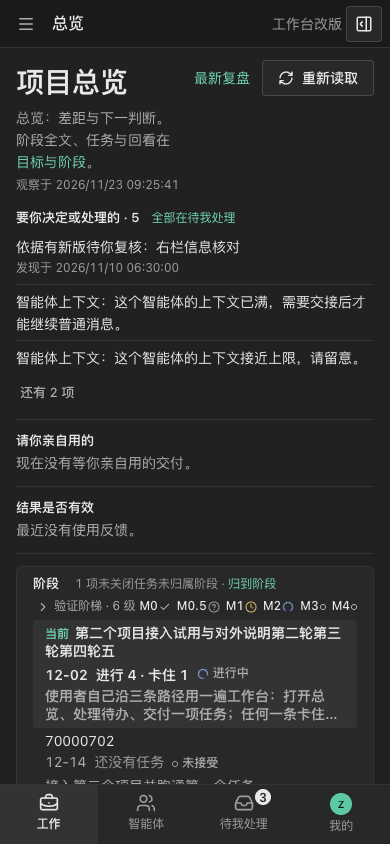
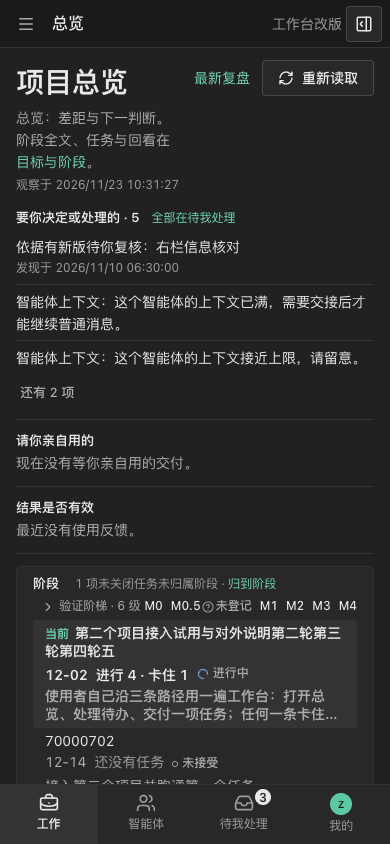
Close-out rework: ladder row names levels by number (only 未登记 marked) and wraps at 390; 目标与阶段 left column gives the name its own line; remove the code only the deleted route used

Changed region(s): [[0.0923, 0.7085, 0.9231, 0.7393], [0.4, 0.2156, 0.4615, 0.2464]]

diff --git a/tests/integration/stage-phase-key.test.ts b/tests/integration/stage-phase-key.test.ts
@@ -7,13 +7,12 @@ import pg from "pg";
 import { migrate, PostgresUnitOfWork } from "@evoloop/adapter-postgres";
 import { WorkflowService } from "@evoloop/core";
 import type { Principal } from "@evoloop/contracts";
-import { milestoneStatus } from "@evoloop/contracts/milestones";
 import { fixtureRoleId, seedFixtureRole } from "./role-fixture.test.js";
 
 const database = process.env.TEST_DATABASE_URL;
 if (!database || !/^\/evoloop(?:_[a-z0-9]+)*_test$/.test(new URL(database).pathname)) throw new Error("A dedicated evoloop_*_test database is required");
 
-test("a stage is linked to a roadmap phase by task decision authority only; the link is read with the stage's own state and latest review, and cleared with null", async t => {
+test("a stage is linked to a roadmap phase by task decision authority only; the link is stored in stage_phase_key and cleared with null", async t => {
   const schema = `phase_key_${randomUUID().replaceAll("-", "")}`;
   await migrate(database!, schema);
   const pool = new pg.Pool({ connectionString: database, options: `-c search_path=${schema}` });
@@ -30,8 +29,9 @@ test("a stage is linked to a roadmap phase by task decision authority only; the 
   const goalId = randomUUID();
   await applied(reviewer, { type: "goal.create", goalId, outcome: "One goal", constraints: "none", consumer: owner, authority: owner, scope: "test", owner });
   const stage = async () => { const stageId = randomUUID(); await applied(reviewer, { type: "stage.propose", shortName: "S", checkMethod: "Check", stageId, goalId, deliverable: "Deliver", learningQuestion: "Learn", reason: "propose" }); return stageId; };
+  const keys = async () => (await pool.query("SELECT phase_key FROM stage_phase_key WHERE project_id=$1 ORDER BY phase_key", [projectId])).rows.map(row => row.phase_key);
   const first = await stage(), second = await stage();
-  assert.deepEqual(await workflow.listStagePhaseLinks(reviewer, projectId), [], "day one: nothing is linked");
+  assert.deepEqual(await keys(), [], "day one: nothing is linked");
 
   const link = (who: Principal, stageId: string, phaseKey: string | null) => issue(who, { type: "stage.phaseKey.set", stageId, phaseKey, reason: "map to the roadmap" });
   await assert.rejects(link(writer, first, "M1"), { code: "FORBIDDEN", message: /Decision authority for task is required/ });
@@ -39,36 +39,26 @@ test("a stage is linked to a roadmap phase by task decision authority only; the 
   assert.equal((await link(reviewer, randomUUID(), "M1")).status, "rejected", "an unknown stage cannot be linked");
   await applied(reviewer, { type: "stage.phaseKey.set", stageId: first, phaseKey: "M1", reason: "map" });
   await applied(reviewer, { type: "stage.phaseKey.set", stageId: second, phaseKey: "M0.5", reason: "map" });
-  let links = await workflow.listStagePhaseLinks(reviewer, projectId);
-  assert.deepEqual(links.map(item => [item.phaseKey, item.state, item.review]), [["M0.5", "proposed", null], ["M1", "proposed", null]]);
+  assert.deepEqual(await keys(), ["M0.5", "M1"]);
   // The stage page's own state moves it: accept, then review; the link follows the same fields.
   await applied(reviewer, { type: "stage.accept", stageId: first, expectedVersion: 1, reason: "accept" });
   await applied(reviewer, { type: "stage.review", stageId: first, expectedVersion: 2, adopted: "The deliverable works", rejected: "Nothing refused", gap: "A gap remains", nextChoice: "continue", evidence: "e", reason: "review" });
-  links = await workflow.listStagePhaseLinks(reviewer, projectId);
-  const m1 = links.find(item => item.phaseKey === "M1")!;
-  assert.equal(m1.state, "reviewed"); assert.equal(m1.review?.adopted, "The deliverable works"); assert.ok(m1.review?.createdAt);
-  assert.equal(milestoneStatus(m1, m1.review), "partial", "an adopted result with a gap is partial");
   // Reachable through the real commands: a correction that says nothing is refused and no gap is left reads 已退出; reviews are append-only.
   const [original] = await workflow.listStageReviews(reviewer, projectId, first);
   const stageNow = await workflow.getStage(reviewer, projectId, first);
   await applied(reviewer, { type: "stage.review.correct", stageId: first, expectedVersion: stageNow.version, supersedesReviewId: original!.id, adopted: "The deliverable works",
     rejected: "无", gap: "没有", nextChoice: "continue", evidence: "e", reason: "the gap was closed" });
-  const corrected = (await workflow.listStagePhaseLinks(reviewer, projectId)).find(item => item.phaseKey === "M1")!;
-  assert.equal(corrected.review?.gap, "没有");
-  assert.equal(milestoneStatus(corrected, corrected.review), "exited", "a real stage.review.correct that names no rejection and no gap reaches 已退出");
   assert.equal((await workflow.listStageReviews(reviewer, projectId, first)).length, 2, "the original review is kept");
   // The reverse: a real review that adopted nothing ("无") reads 已回看.
   await applied(reviewer, { type: "stage.review.correct", stageId: first, expectedVersion: (await workflow.getStage(reviewer, projectId, first)).version,
     supersedesReviewId: (await workflow.listStageReviews(reviewer, projectId, first)).find(r => r.supersedesReviewId)!.id, adopted: "无", rejected: "Refused it", gap: "A gap",
     nextChoice: "stop", evidence: "e", reason: "nothing was adopted" });
-  const reread = (await workflow.listStagePhaseLinks(reviewer, projectId)).find(item => item.phaseKey === "M1")!;
-  assert.equal(milestoneStatus(reread, reread.review), "reviewed", "a real review that adopted nothing is only 已回看");
   // Re-linking changes the phase of the same stage; null clears it; the stage itself is untouched.
   await applied(reviewer, { type: "stage.phaseKey.set", stageId: first, phaseKey: "M2", reason: "remap" });
-  assert.deepEqual((await workflow.listStagePhaseLinks(reviewer, projectId)).map(item => item.phaseKey), ["M0.5", "M2"]);
+  assert.deepEqual(await keys(), ["M0.5", "M2"]);
   await applied(reviewer, { type: "stage.phaseKey.set", stageId: second, phaseKey: null, reason: "unlink" });
-  assert.deepEqual((await workflow.listStagePhaseLinks(reviewer, projectId)).map(item => item.phaseKey), ["M2"]);
+  assert.deepEqual(await keys(), ["M2"]);
   assert.equal((await workflow.getStage(reviewer, projectId, first)).state, "reviewed", "the stage's own record is untouched by the link");
   // A reader without write still reads the links.
-  assert.equal((await workflow.listStagePhaseLinks({ ...writer, permissions: [] }, projectId)).length, 1);
+  assert.equal((await keys()).length, 1);
 });

diff --git a/apps/workbench/test/stage-closeout-ci-browser.test.ts b/apps/workbench/test/stage-closeout-ci-browser.test.ts
@@ -51,7 +51,9 @@ test("close-out: folded ladder row and the two left columns", { skip }, async t 
   const name24 = "第二个项目接入试用与对外说明第二轮第三轮第四轮五"; // exactly 24
   assert.equal([...name24].length, 24);
   const sentence = (key: string) => `${key} 级的状态整句：这一级在路线图状态表里写了足够长的一整句说明，超过三十个字，折叠时一个字也不应该出现。`;
-  const levels = ["M0", "M0.5", "M1", "M2", "M3", "M4"].map((key, index) => ({ key, name: `级别 ${key}`, status: index === 1 ? null : index === 0 ? `已完成：${sentence(key)}` : index === 2 ? `部分达成：${sentence(key)}` : index === 3 ? `进行中：${sentence(key)}` : `未开始：${sentence(key)}`, evidenceStages: [] }));
+  // The real roadmap's sentences do not start with a status word: they start with the place, the date or the host.
+  const openings = ["旧机上", "", "10-30 以来", "常驻主机已运行，", "没有人为介入，", "已在生产环境，"];
+  const levels = ["M0", "M0.5", "M1", "M2", "M3", "M4"].map((key, index) => ({ key, name: `级别 ${key}`, status: index === 1 ? null : `${openings[index]}${sentence(key)}`, evidenceStages: [] }));
 
   const open = async (path: string, width: number, height: number, scheme: "light" | "dark") => {
     const context = await browser.newContext({ viewport: { width, height }, colorScheme: scheme, locale: "zh-CN", timezoneId: "Asia/Tashkent" });
@@ -84,12 +86,14 @@ test("close-out: folded ladder row and the two left columns", { skip }, async t 
     assert.match(folded, /^验证阶梯 · 6 级/);
     assert.equal(await summary.locator("[data-ladder-mark]").count(), 6);
     for (const key of ["M0", "M0.5", "M1", "M2", "M3", "M4"]) assert.ok(await summary.locator(`[data-ladder-mark="${key}"]`).count() === 1, key);
-    assert.ok(!folded.includes("整句"), "no status sentence while folded");
-    const box = await summary.boundingBox(); assert.ok(box && box.height < 28, `the folded row is one line at ${width} (height ${box?.height})`);
-    const marks = await summary.locator("[data-ladder-mark]").evaluateAll(nodes => nodes.map(node => { const r = node.getBoundingClientRect(); return { right: r.right, top: r.top }; }));
+    assert.ok(!folded.includes("整句") && !folded.includes("见全文"), "no status sentence and no 见全文 while folded");
+    const box = await summary.boundingBox(); assert.ok(box && box.height < (width >= 1000 ? 28 : 60), `the folded row is one line at 1440 and at most two at 390 (height ${box?.height}, width ${width})`);
+    const marks = await summary.locator("[data-ladder-mark]").evaluateAll(nodes => nodes.map(node => { const r = node.getBoundingClientRect(); return { right: r.right, left: r.left, top: r.top }; }));
     const nav = await summary.evaluate(node => node.getBoundingClientRect().right);
-    assert.ok(marks.every(mark => mark.right <= nav + 0.5 && Math.abs(mark.top - marks[0]!.top) < 4), `six marks on the one line, inside the row at ${width}: ${JSON.stringify(marks)}`);
-    if (width >= 1000) for (const label of ["已有", "未登记", "部分", "进行中", "未有"]) assert.ok(folded.includes(label), label);
+    assert.ok(marks.every(mark => mark.right <= nav + 0.5 && mark.left >= 0), `all six numbers, the last included, are inside the row at ${width}: ${JSON.stringify(marks)}`);
+    if (width >= 1000) assert.ok(marks.every(mark => Math.abs(mark.top - marks[0]!.top) < 4), "one line at 1440");
+    assert.deepEqual(await summary.locator("[data-ladder-mark]").evaluateAll(nodes => nodes.map(node => [node.getAttribute("data-ladder-mark"), /未登记/.test((node as HTMLElement).innerText)])),
+      [["M0", false], ["M0.5", true], ["M1", false], ["M2", false], ["M3", false], ["M4", false]], "only the unregistered level carries a mark");
     await noOverflow(page);
     if (shots) await page.screenshot({ path: `${shots}/closeout-overview-${width}-${scheme}.png` });
     // Expanded: the full sentences.
@@ -112,10 +116,16 @@ test("close-out: folded ladder row and the two left columns", { skip }, async t 
       const journey = await open("journey", width, height, scheme);
       const journeyRail = journey.locator('nav[aria-label="目标与阶段"]'); await journeyRail.locator("[data-stage-label]").first().waitFor({ timeout: 20000 });
       const labels = journeyRail.locator("a:has([data-stage-label])"); assert.equal(await labels.count(), 3);
-      const jr = await Promise.all([0, 1, 2].map(index => read(labels.nth(index))));
-      assert.deepEqual(jr.map(item => item.due), ["· 12-02", "· 未定", "· 12-14"]);
-      assert.equal(jr[0]!.name, name24); assert.ok(jr[0]!.cut); assert.equal(jr[1]!.name, "旧阶段的名字");
-      for (const item of jr) assert.ok(item.dueRight! <= item.rowRight + 0.5, "the due date is inside the column");
+      // Two lines per stage: the name alone, then due date, task count and status. The name column is the column.
+      const jr = await Promise.all([0, 1, 2].map(index => labels.nth(index).evaluate(node => {
+        const name = node.querySelector<HTMLElement>("[data-stage-label-name]")!; const facts = node.querySelector<HTMLElement>("[data-stage-facts]")!; const due = facts.querySelector<HTMLElement>("[data-stage-label-due]");
+        const row = node.getBoundingClientRect(); return { name: name.textContent, nameInName: node.querySelector("[data-stage-label-name] [data-stage-label-due]") === null, cut: name.scrollWidth > name.clientWidth, nameWidth: name.getBoundingClientRect().width,
+          due: due?.textContent ?? null, dueRight: due ? due.getBoundingClientRect().right : null, rowRight: row.right, below: facts.getBoundingClientRect().top >= name.getBoundingClientRect().bottom - 1, facts: facts.innerText }; })));
+      assert.deepEqual(jr.map(item => item.due), ["12-02", "未定", "12-14"]);
+      assert.ok(jr.every(item => item.below && item.nameInName), "the facts are the second line");
+      assert.equal(jr[0]!.name, name24); assert.ok(jr[0]!.cut, "the 24-character name is cut"); assert.ok(jr[0]!.nameWidth > 150, `the name column is wide (${jr[0]!.nameWidth})`);
+      assert.equal(jr[1]!.name, "旧阶段的名字"); assert.ok(!jr[1]!.cut);
+      for (const item of jr) { assert.ok(item.dueRight! <= item.rowRight + 0.5, "the due date is inside the column"); assert.match(item.facts, /项任务/); }
       await noOverflow(journey);
       if (shots) await journey.screenshot({ path: `${shots}/closeout-journey-${width}-${scheme}.png` });
       await journey.context().close();

diff --git a/apps/coordinator/test/milestones.test.ts b/apps/coordinator/test/milestones.test.ts
@@ -4,12 +4,10 @@ import { tmpdir } from "node:os";
 import { join } from "node:path";
 import test from "node:test";
 import { readFileSync } from "node:fs";
-import { milestoneStatus } from "@evoloop/contracts/milestones";
 import { parseRoadmapPhases, readBuildInfo, registerMilestoneRoutes } from "../src/milestones/index.ts";
 import { buildServer } from "../src/server.ts";
 
 const roadmap = readFileSync(new URL("../../../docs/roadmap.md", import.meta.url), "utf8");
-const review = (adopted: string, rejected: string, gap: string) => ({ adopted, rejected, gap, createdAt: "2026-11-12T03:00:00.000Z" });
 
 test("the roadmap's real phase table gives the six phases with their delivery and exit evidence", () => {
   const phases = parseRoadmapPhases(roadmap);
@@ -20,27 +18,10 @@ test("the roadmap's real phase table gives the six phases with their delivery an
   assert.deepEqual(parseRoadmapPhases("no table here"), []);
 });
 
-test("exited needs something adopted and neither a gap nor a rejection; only a rejection or a gap is partial; the rest is just reviewed", () => {
-  const reviewed = { state: "reviewed" as const };
-  assert.equal(milestoneStatus(reviewed, review("it works", "", "")), "exited");
-  assert.equal(milestoneStatus(reviewed, review("it works", "", "one gap")), "partial");
-  assert.equal(milestoneStatus(reviewed, review("it works", "one thing refused", "")), "partial", "a rejection with no gap is not an exit");
-  assert.equal(milestoneStatus(reviewed, review("", "refused", "")), "reviewed", "only a rejection and nothing adopted is not an exit either");
-  assert.equal(milestoneStatus(reviewed, review("  ", "", "")), "reviewed");
-  assert.equal(milestoneStatus(reviewed, null), "reviewed");
-  // The commands require text in all three fields, so "nothing" is written as a word: those count as empty, and nothing else does.
-  for (const none of ["无", "没有", "暂无", "无。", " 无缺口 ", "None", "n/a", "N/A", "—", "-"]) assert.equal(milestoneStatus(reviewed, review("it works", none, none)), "exited", `"${none}" means none`);
-  assert.equal(milestoneStatus(reviewed, review("it works", "无", "没有完全解决，剩下一项")), "partial", "a sentence that merely starts with 没有 is a gap");
-  assert.equal(milestoneStatus(reviewed, review("it works", "Nothing refused", "None left")), "partial", "only the bare marker counts, not a sentence");
-  assert.equal(milestoneStatus(reviewed, review("无", "无", "无")), "reviewed", "nothing adopted is only 已回看");
-  assert.equal(milestoneStatus({ state: "active" }, review("a", "", "")), "in_progress");
-  assert.equal(milestoneStatus({ state: "proposed" }, null), "not_started");
-});
-
 test("GET /api/version is public and gives only commit, builtAt and startedAt; a missing build-info.json reads null, never an old value", async t => {
   const root = await mkdtemp(join(tmpdir(), "evoloop-version-"));
   t.after(() => rm(root, { recursive: true, force: true }));
-  const app = await buildServer({ service: new Proxy({ getProject: async () => ({ id: "p" }), listStagePhaseLinks: async () => [] }, { get: (target, name) => name in target ? (target as never)[name] : async () => undefined }) as never, credentials: [{ token: "t".repeat(40), actorId: "reader", projectIds: ["00000000-0000-4000-8000-000000000001"], permissions: [] }], milestones: { repoRoot: root, startedAt: "2026-11-12T01:00:00.000Z" } } as never);
+  const app = await buildServer({ service: new Proxy({ getProject: async () => ({ id: "p" }) }, { get: (target, name) => name in target ? (target as never)[name] : async () => undefined }) as never, credentials: [{ token: "t".repeat(40), actorId: "reader", projectIds: ["00000000-0000-4000-8000-000000000001"], permissions: [] }], milestones: { repoRoot: root, startedAt: "2026-11-12T01:00:00.000Z" } } as never);
   t.after(() => app.close());
   const missing = await app.inject({ url: "/api/version" });
   assert.equal(missing.statusCode, 200, "no login needed");

diff --git a/apps/workbench/src/features/workflow/JourneyPage.tsx b/apps/workbench/src/features/workflow/JourneyPage.tsx
@@ -108,6 +108,15 @@ export function JourneyPage({ context, active, propose }: { context: MutationCon
   const goalHref = (id: string) => `${journeyHref}?goal=${id}`;
   const tree = goalTree(goals, stages);
   const stageMeta = (item: Stage) => groups ? `${groups.byStage.get(item.id)?.length ?? 0} 项任务${work?.complete ? "" : "（已读部分）"}` : states.work === "failed" ? "任务暂不可读取" : "正在读取任务";
+  // Two lines per stage: its name alone on the first (so a long name takes the whole column), then due date, task count and status.
+  const stageFacts = (item: Stage) => {
+    const due = labelOf(item).due;
+    return <span className="flex flex-wrap items-center gap-x-1.5 gap-y-0.5 whitespace-normal" data-stage-facts="">
+      {due && <span className="tabular-nums" title={due.title} data-stage-label-due="">{due.text}</span>}
+      <span>{stageMeta(item)}</span>
+      <StatusTag tone={statusOf(item).tone} label={statusOf(item).label} />
+    </span>;
+  };
   const rail = <ContextRailContent><div data-ui="">
     <nav aria-label="目标与阶段" className="flex flex-col gap-0.5 pb-2 pt-2">
       <div className="flex items-center gap-2 px-3 pb-1.5 pt-2"><span className={cn(muted, "flex-1")}>目标与阶段{goalsKnown ? ` · ${goals.length} 个目标` : ""}</span>
@@ -117,12 +126,12 @@ export function JourneyPage({ context, active, propose }: { context: MutationCon
       {tree.items.map(({ goal: item, stages: owned }) => <div key={item.id} className="flex flex-col gap-0.5">
         <ListRow href={goalHref(item.id)} selected={!stage && goal?.id === item.id} title={<span title={item.outcome}>{item.outcome}</span>} meta={stagesKnown ? `目标 · ${owned.length} 个阶段` : `目标 · ${stagesUnknown}`} />
         {owned.length > 0 && <ul aria-label={`${item.outcome}的阶段`} className="flex flex-col gap-0.5 pl-3">{owned.map(entry => <li key={entry.id}>
-          <ListRow href={stageHref(entry.id)} selected={stage?.id === entry.id} title={<span title={entry.deliverable} className="block min-w-0"><StageLabel {...labelOf(entry)} /></span>}
-            meta={stageMeta(entry)} trailing={<StatusTag tone={statusOf(entry).tone} label={statusOf(entry).label} />} />
+          <ListRow href={stageHref(entry.id)} selected={stage?.id === entry.id} title={<span title={entry.deliverable} className="block min-w-0"><StageLabel {...labelOf(entry)} due={null} /></span>}
+            meta={stageFacts(entry)} />
         </li>)}</ul>}
       </div>)}
       {tree.orphans.length > 0 && <div className="mt-2 flex flex-col gap-0.5"><span className={cn(muted, "px-3")}>所属目标未读到的阶段</span>
-        {tree.orphans.map(entry => <ListRow key={entry.id} href={stageHref(entry.id)} selected={stage?.id === entry.id} title={<span title={entry.deliverable} className="block min-w-0"><StageLabel {...labelOf(entry)} /></span>} meta={stageMeta(entry)} />)}</div>}
+        {tree.orphans.map(entry => <ListRow key={entry.id} href={stageHref(entry.id)} selected={stage?.id === entry.id} title={<span title={entry.deliverable} className="block min-w-0"><StageLabel {...labelOf(entry)} due={null} /></span>} meta={stageFacts(entry)} />)}</div>}
       {goalsRead.data && !goalsRead.data.complete && <p className={cn(muted, "px-3")}>目标只列出了已读的部分。</p>}
     </nav>
   </div></ContextRailContent>;

diff --git a/packages/adapter-postgres/src/index.ts b/packages/adapter-postgres/src/index.ts
@@ -297,15 +297,6 @@ class PgReader implements Reader {
     pageLimit(limit); const r=await this.client.query("SELECT * FROM project_goal WHERE project_id=$1 AND ($2::uuid IS NULL OR goal_id>$2::uuid) ORDER BY goal_id LIMIT $3",[this.projectId,cursor??null,limit+1]); return page(r.rows,limit,rowGoal,x=>x.goal_id);
   }
   async listGoalRevisions(goalId:string):Promise<GoalRevision[]> {const r=await this.client.query("SELECT * FROM goal_revision WHERE project_id=$1 AND goal_id=$2 ORDER BY version LIMIT $3",[this.projectId,goalId,maxDetailRows+1]);return bounded(r.rows.map(rowGoalRevision),"goal revisions");}
-  async listStagePhaseLinks():Promise<import("@evoloop/contracts/milestones").StagePhaseLink[]> {
-    const r=await this.client.query(`SELECT k.stage_id,s.goal_id,k.phase_key,s.state,rv.adopted,rv.rejected,rv.gap,rv.created_at AS review_at
-      FROM stage_phase_key k JOIN project_stage s ON s.project_id=k.project_id AND s.stage_id=k.stage_id
-      LEFT JOIN LATERAL (SELECT adopted,rejected,gap,created_at FROM stage_review v WHERE v.project_id=k.project_id AND v.stage_id=k.stage_id
-        ORDER BY v.created_at DESC,v.review_id DESC LIMIT 1) rv ON true
-      WHERE k.project_id=$1 ORDER BY k.phase_key,s.created_at,s.stage_id LIMIT $2`,[this.projectId,maxDetailRows+1]);
-    return bounded(r.rows.map(x=>({stageId:x.stage_id,goalId:x.goal_id,phaseKey:x.phase_key,state:x.state,
-      review:x.review_at?{adopted:x.adopted,rejected:x.rejected,gap:x.gap,createdAt:new Date(x.review_at).toISOString()}:null})),"stage phase links");
-  }
   async getStageMilestone(stageId:string):Promise<StageMilestone|null> {const r=await this.client.query("SELECT *,to_char(due_on,'YYYY-MM-DD') AS due_on_text FROM stage_milestone WHERE project_id=$1 AND stage_id=$2",[this.projectId,stageId]);return r.rows[0]?rowMilestone(r.rows[0]):null;}
   async listStageMilestoneHistory(stageId:string):Promise<StageMilestone[]> {const r=await this.client.query("SELECT *,to_char(due_on,'YYYY-MM-DD') AS due_on_text FROM stage_milestone_history WHERE project_id=$1 AND stage_id=$2 ORDER BY version LIMIT $3",[this.projectId,stageId,maxDetailRows+1]);return bounded(r.rows.map(rowMilestone),"stage milestone history");}
   async listStageMilestones():Promise<StageMilestone[]> {const r=await this.client.query("SELECT *,to_char(due_on,'YYYY-MM-DD') AS due_on_text FROM stage_milestone WHERE project_id=$1 ORDER BY stage_id LIMIT $2",[this.projectId,maxDetailRows+1]);return bounded(r.rows.map(rowMilestone),"stage milestones");}

diff --git a/packages/contracts/src/milestones.ts b/packages/contracts/src/milestones.ts
@@ -3,14 +3,6 @@ import { z } from "zod";
 /** A roadmap phase key as written in docs/roadmap.md: M0, M0.5, M1, … */
 export const phaseKeySchema = z.string().regex(/^M[0-9]+(?:\.[0-9]+)?$/, "phase key looks like M1 or M0.5");
 
-export type MilestoneStatus = "not_started" | "in_progress" | "partial" | "exited" | "reviewed";
-
-export const milestoneStatusLabel: Record<MilestoneStatus, string> = {
-  not_started: "未开始", in_progress: "进行中", partial: "部分成立", exited: "已退出", reviewed: "已回看（结论见阶段页）",
-};
-
-export interface MilestoneReview { adopted: string; rejected: string; gap: string; createdAt: string }
-
 /**
  * `stage.review` / `stage.correct` require text in adopted, rejected and gap, so "nothing" can only be written as a word. A field that is just
  * one of these markers (alone, ignoring spaces and a closing full stop) counts as empty; a sentence that merely contains one does not.
@@ -19,25 +11,6 @@ const NONE_MARKERS = new Set(["无", "没有", "暂无", "无缺口", "无拒绝
 export function isNoneMarker(value: string): boolean {
   const text = value.trim().replace(/[。.]+$/, "").trim().toLowerCase();
   return text.length === 0 || NONE_MARKERS.has(text);
-}
-
-/**
- * A linked stage's milestone status, from the same fields the goals-and-stages page shows (its state and latest review).
- * `exited`: reviewed, something adopted, and neither a gap nor a rejection left. `partial`: something adopted and a gap or a rejection
- * remains. Any other reviewed stage is only 已回看: the conclusion is on the stage page, nothing is inferred from it.
- */
-export function milestoneStatus(stage: { state: "proposed" | "active" | "reviewed" }, review: MilestoneReview | null): MilestoneStatus {
-  if (stage.state === "proposed") return "not_started";
-  if (stage.state === "active") return "in_progress";
-  const filled = (value: string | undefined) => !!value && !isNoneMarker(value);
-  if (review && filled(review.adopted)) return filled(review.gap) || filled(review.rejected) ? "partial" : "exited";
-  return "reviewed";
-}
-
-/** What the server knows about a stage linked to a roadmap phase. */
-export interface StagePhaseLink {
-  stageId: string; goalId: string; phaseKey: string; state: "proposed" | "active" | "reviewed";
-  review: MilestoneReview | null;
 }
 
 export interface VersionInfo { commit: string | null; builtAt: string | null; startedAt: string }

diff --git a/apps/workbench/test/stages-presentation.test.ts b/apps/workbench/test/stages-presentation.test.ts
@@ -54,11 +54,10 @@ test("only open Tasks the service marks unassigned go in the unassigned area", (
   assert.equal(isUnowned({ taskState: "todo", stageOwnership: { state: "none", reason: "x" } } as never), false);
   assert.equal(isUnowned({ taskState: "todo" } as never), false);
 });
-test("the folded ladder row marks each level by the first words of its own status; no status is 未登记 and an unrecognised sentence is 见全文", () => {
+test("the folded ladder row names each level by its number; only a level with no status carries a mark (未登记)", () => {
   const level = (key: string, status: string | null) => ({ key, name: key, status, evidenceStages: [] });
-  const marks = ladderMarks({ available: true, source: { commit: null }, levels: [level("M0", "已完成：任务、交付、验收各有记录，共三十个字以上的整句说明"), level("M0.5", null), level("M1", "部分达成，仍缺一项"), level("M2", "进行中"), level("M3", "未开始，没有证据"), level("M4", "常驻主机已运行")] } as never);
-  assert.deepEqual(marks.map(mark => [mark.key, mark.label]), [["M0", "已有"], ["M0.5", "未登记"], ["M1", "部分"], ["M2", "进行中"], ["M3", "未有"], ["M4", "见全文"]]);
-  assert.deepEqual(marks.map(mark => mark.tone), ["done", "unknown", "waiting", "progress", "idle", "unknown"]);
+  const marks = ladderMarks({ available: true, source: { commit: null }, levels: [level("M0", "旧机上任务、交付、验收各有记录，共三十个字以上的整句说明"), level("M0.5", null), level("M1", "10-30 以来每天都有一份验收结论，已连续多日"), level("M2", "进行中"), level("M3", "未开始，没有证据"), level("M4", "常驻主机已运行，三十个字以上的整句说明")] } as never);
+  assert.deepEqual(marks.map(mark => [mark.key, mark.registered]), [["M0", true], ["M0.5", false], ["M1", true], ["M2", true], ["M3", true], ["M4", true]]);
   assert.equal(ladderHeading({ available: true, source: { commit: null }, levels: marks.map(mark => ({ key: mark.key })) } as never), "验证阶梯 · 6 级");
 });
 test("a stage without a short name keeps the first line of its text, without the 名称： label", () => {

diff --git a/apps/workbench/src/features/stages/stagesPresentation.ts b/apps/workbench/src/features/stages/stagesPresentation.ts
@@ -74,18 +74,9 @@ export interface LadderLine { key: string; name: string; status: string }
 export function ladderLines(ladder: LadderView): LadderLine[] {
   return ladder.levels.map(level => ({ key: level.key, name: level.name, status: level.status?.trim() || NOT_REGISTERED }));
 }
-/** The short mark of a level's status sentence for the folded row. Only the sentence's own first words are read; a sentence that says none of these is 见全文, never a guess. */
-export interface LadderMark { key: string; tone: StatusTone; label: string; full: string }
-export function ladderMark(status: string | null | undefined): { tone: StatusTone; label: string } {
-  const text = status?.trim();
-  if (!text) return { tone: "unknown", label: NOT_REGISTERED };
-  if (/^(已完成|已有|已通过|已达成|已满足|已退出|完成|通过)/.test(text)) return { tone: "done", label: "已有" };
-  if (/^(部分|有限|基本)/.test(text)) return { tone: "waiting", label: "部分" };
-  if (/^(进行中|在做|试行)/.test(text)) return { tone: "progress", label: "进行中" };
-  if (/^(未|没有|尚未|还没|暂无|待)/.test(text)) return { tone: "idle", label: "未有" };
-  return { tone: "unknown", label: "见全文" };
-}
-export const ladderMarks = (ladder: LadderView): LadderMark[] => ladderLines(ladder).map(line => ({ key: line.key, ...ladderMark(line.status === NOT_REGISTERED ? null : line.status), full: line.status }));
+/** The folded row names every level by its number; only a level the roadmap has no status for carries a mark (未登记). A status sentence is never summarised by guessing: it is read in full when the row is opened. */
+export interface LadderMark { key: string; registered: boolean; full: string }
+export const ladderMarks = (ladder: LadderView): LadderMark[] => ladderLines(ladder).map(line => ({ key: line.key, registered: line.status !== NOT_REGISTERED, full: line.status }));
 /** "验证阶梯 · 6 级": the words at the left of the folded row. */
 export const ladderHeading = (ladder: LadderView): string => `验证阶梯 · ${ladder.levels.length} 级`;
 

diff --git a/apps/workbench/src/features/stages/LadderView.tsx b/apps/workbench/src/features/stages/LadderView.tsx
@@ -6,7 +6,7 @@ import { errorText } from "../../shared/api";
 import { href } from "../../shared/ui/shared";
 import { useLadder } from "./stagesRead";
 import { StatusTag } from "@evoloop/ui";
-import { LADDER_UNREADABLE, ladderHeading, ladderLines, ladderMarks } from "./stagesPresentation";
+import { LADDER_UNREADABLE, NOT_REGISTERED, ladderHeading, ladderLines, ladderMarks } from "./stagesPresentation";
 
 const muted = "text-caption text-muted-foreground";
 
@@ -36,10 +36,10 @@ export function LadderRow({ projectId, enabled, section = false }: { projectId: 
     <summary className="flex min-w-0 cursor-pointer list-none items-center gap-1 text-text-secondary outline-none focus-visible:shadow-[var(--focus-ring)] [&::-webkit-details-marker]:hidden">
       <ChevronRight aria-hidden="true" className="size-3.5 shrink-0 transition-transform duration-150 group-open:rotate-90 motion-reduce:transition-none" />
       <span className="shrink-0 text-caption compact:text-small">{ladderHeading(view)}</span>
-      <span className="flex min-w-0 flex-nowrap items-center gap-x-1.5 overflow-hidden whitespace-nowrap compact:gap-x-2.5" data-ladder-summary="">
+      <span className="flex min-w-0 flex-wrap items-center gap-x-2 gap-y-0.5" data-ladder-summary="">
         {ladderMarks(view).map(mark => <span key={mark.key} className="inline-flex shrink-0 items-center gap-px" data-ladder-mark={mark.key} title={`${mark.key}：${mark.full}`}>
           <span className="text-caption font-medium text-foreground">{mark.key}</span>
-          <StatusTag tone={mark.tone} label={mark.label} className="gap-0.5 py-0 [&>span:last-child]:sr-only compact:[&>span:last-child]:not-sr-only" />
+          {!mark.registered && <StatusTag tone="unknown" label={NOT_REGISTERED} className="gap-0.5 py-0" />}
         </span>)}
       </span>
     </summary>

diff --git a/tests/integration/stage-milestone.test.ts b/tests/integration/stage-milestone.test.ts
@@ -154,8 +154,8 @@ test("migration 118 over existing data: old tables unchanged, ladder keys and ow
   await f.pool.query(readFileSync(new URL("../../packages/adapter-postgres/rollback/118_drop_stage_milestone_task_stage.sql", import.meta.url), "utf8"));
   const gone = await f.pool.query("SELECT count(*) AS n FROM information_schema.tables WHERE table_schema=$1 AND table_name IN ('stage_milestone','stage_milestone_history','task_stage','task_stage_history')", [f.schema]);
   assert.equal(Number(gone.rows[0].n), 0);
-  const links = await f.workflow.listStagePhaseLinks(f.decider, f.projectId);
-  assert.deepEqual(links.map(link => link.phaseKey), ["M0.5", "M1"], "the old phase-key milestone read still works");
+  const links = await f.pool.query("SELECT phase_key FROM stage_phase_key WHERE project_id=$1 ORDER BY phase_key", [f.projectId]);
+  assert.deepEqual(links.rows.map(row => row.phase_key), ["M0.5", "M1"], "the old phase-key rows still read");
   assert.equal((await f.workflow.getStage(f.decider, f.projectId, a)).state, "reviewed");
   const finalAfter = await Promise.all(watched.map(table => f.pool.query(`SELECT md5(string_agg(t::text, '|' ORDER BY t::text)) AS h, count(*) AS n FROM ${table} t`).then(r => `${r.rows[0].n}:${r.rows[0].h}`)));
   assert.deepEqual(finalAfter, before, "the old tables are unchanged after the rollback too");

diff --git a/packages/core/src/index.ts b/packages/core/src/index.ts
@@ -1225,9 +1225,6 @@ export class WorkflowService {
   listGoalRevisions(principal: Principal, projectId: string, goalId: string) { return this.read(principal, projectId, async reader => { required(await reader.getGoal(goalId),"Goal"); return reader.listGoalRevisions(goalId); }); }
   getStage(principal: Principal, projectId: string, stageId: string) { return this.read(principal, projectId, reader => Promise.resolve(reader.getStage(stageId)).then(stage => required(stage,"Stage"))); }
   /** The stages linked to a roadmap phase, each with its latest review (the overview's milestones read these). */
-  listStagePhaseLinks(principal: Principal, projectId: string) {
-    return this.read(principal, projectId, reader => reader.listStagePhaseLinks?.() ?? Promise.resolve([]));
-  }
   /** The stage's milestone fields (null: not registered) with every change made to them, newest last. */
   getStageMilestone(principal: Principal, projectId: string, stageId: string) {
     return this.read(principal, projectId, async reader => { required(await reader.getStage(stageId), "Stage");

diff --git a/packages/contracts/src/ports.ts b/packages/contracts/src/ports.ts
@@ -63,7 +63,6 @@ export interface Reader extends ReferenceReader, RoleReader, SchedulingReader, D
   getStage(id: string): Promise<Stage | null>;
   listStages(goalId?: string): Promise<Stage[]>;
   /** Stages linked to a roadmap phase with their latest review. */
-  listStagePhaseLinks?(): Promise<import("./milestones.js").StagePhaseLink[]>;
   listStageRevisions(stageId: string): Promise<StageRevision[]>;
   /** Milestone fields of a stage (migration 118); null when the stage has no row. */
   getStageMilestone?(stageId: string): Promise<import("./workflow.js").StageMilestone | null>;
